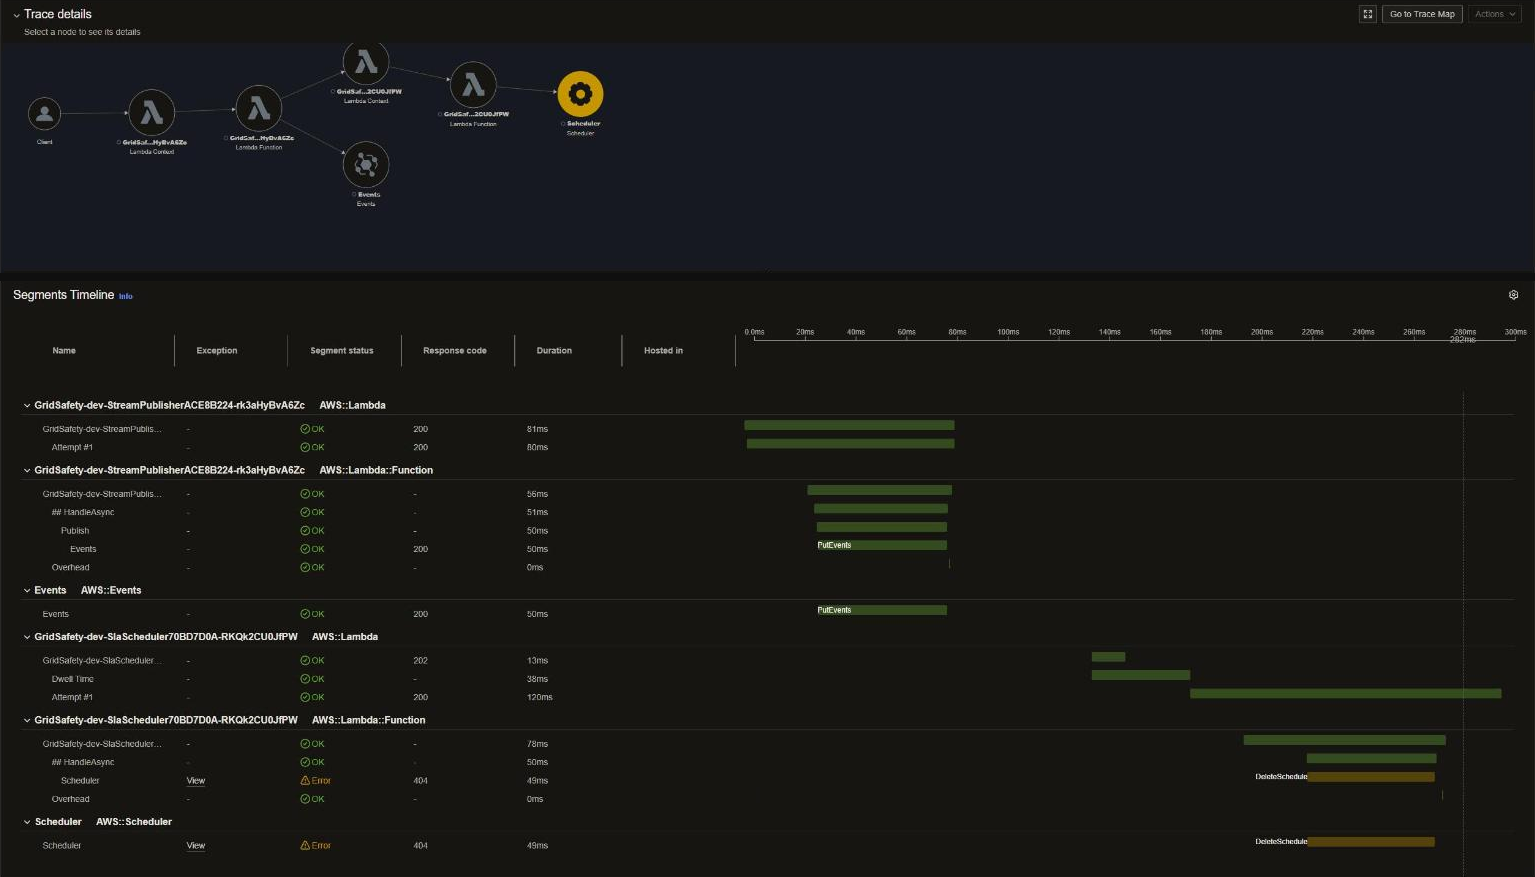
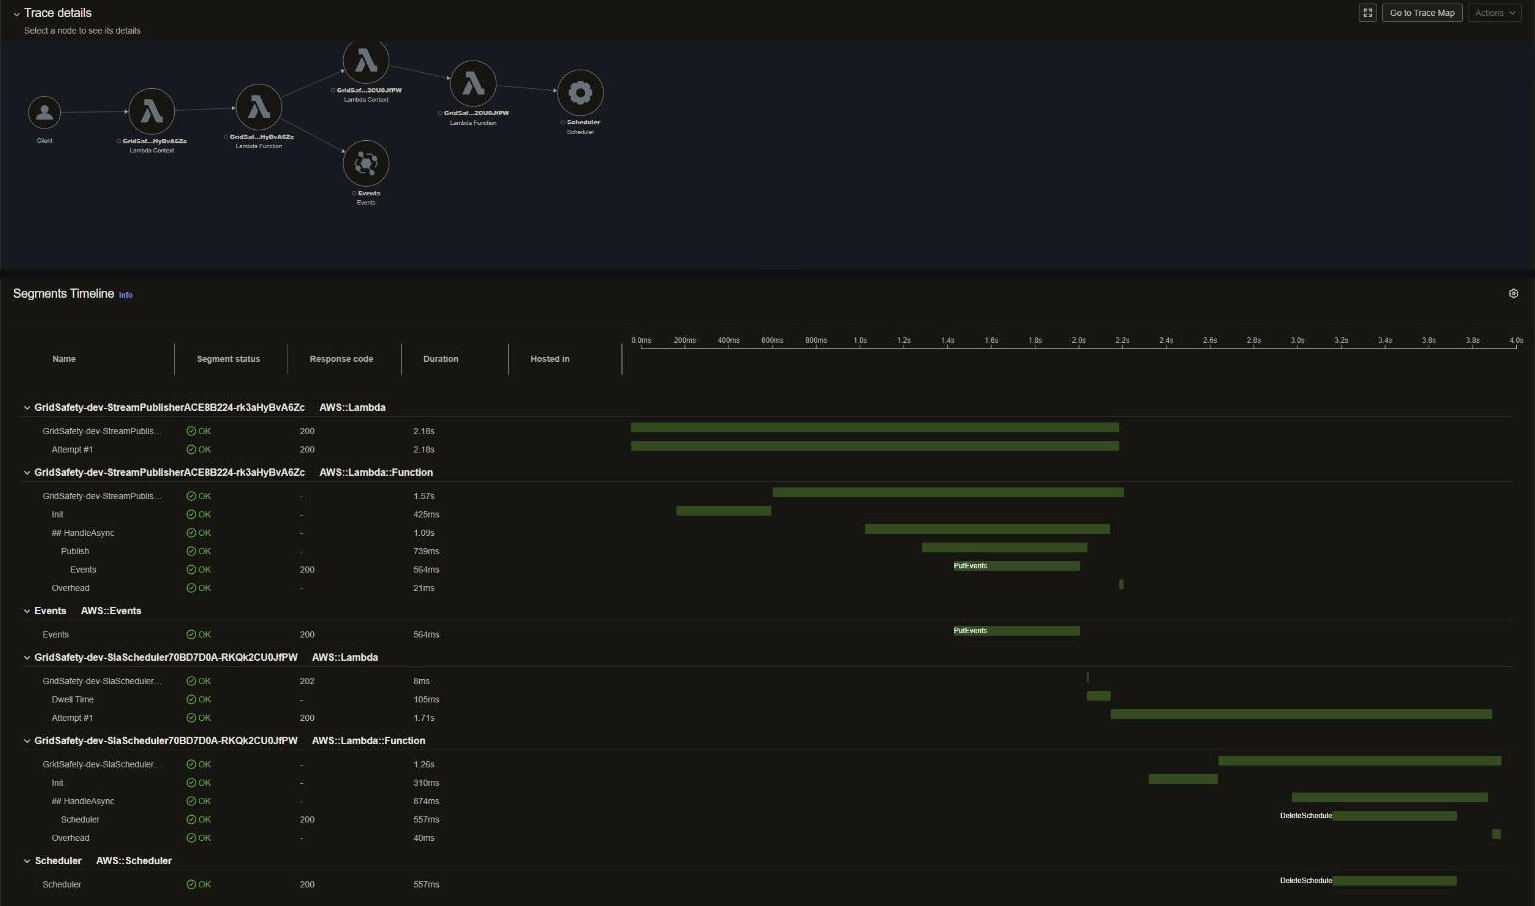
README: retake the X-Ray trace after the SLA fix (all steps OK, DeleteSchedule 200)

diff --git a/README.md b/README.md
@@ -237,7 +237,7 @@ annotation.findingId = "01JD3…"
 
 That returns the ingest that created it from the MQTT message, the outbox publish, the SLA timer being booked, the page to on-call and, if nobody triages it in time, the escalation. Batch handlers (the stream publisher, the SQS notifier) give each record its own subsegment, so a batch holding several findings still tags each one.
 
-Here is a real one from the live demo: a supervisor's change to a finding, picked off the table stream, published to EventBridge and carried by EventBridge into the SLA scheduler, about 280 ms end to end.
+Here is a real one from the live demo: a supervisor triages a finding, the change is picked off the table stream, published to EventBridge, and carried by EventBridge into the SLA scheduler, which cancels the finding's deadline timer. Both functions had been idle, so the trace also shows their cold starts (`Init`); warm, the same chain takes about 280 ms.
 
 ![X-Ray trace of one finding: StreamPublisher Lambda, EventBridge PutEvents, SlaScheduler Lambda and EventBridge Scheduler in one trace, with the segment timeline](docs/screenshots/xray-trace.png)
 
